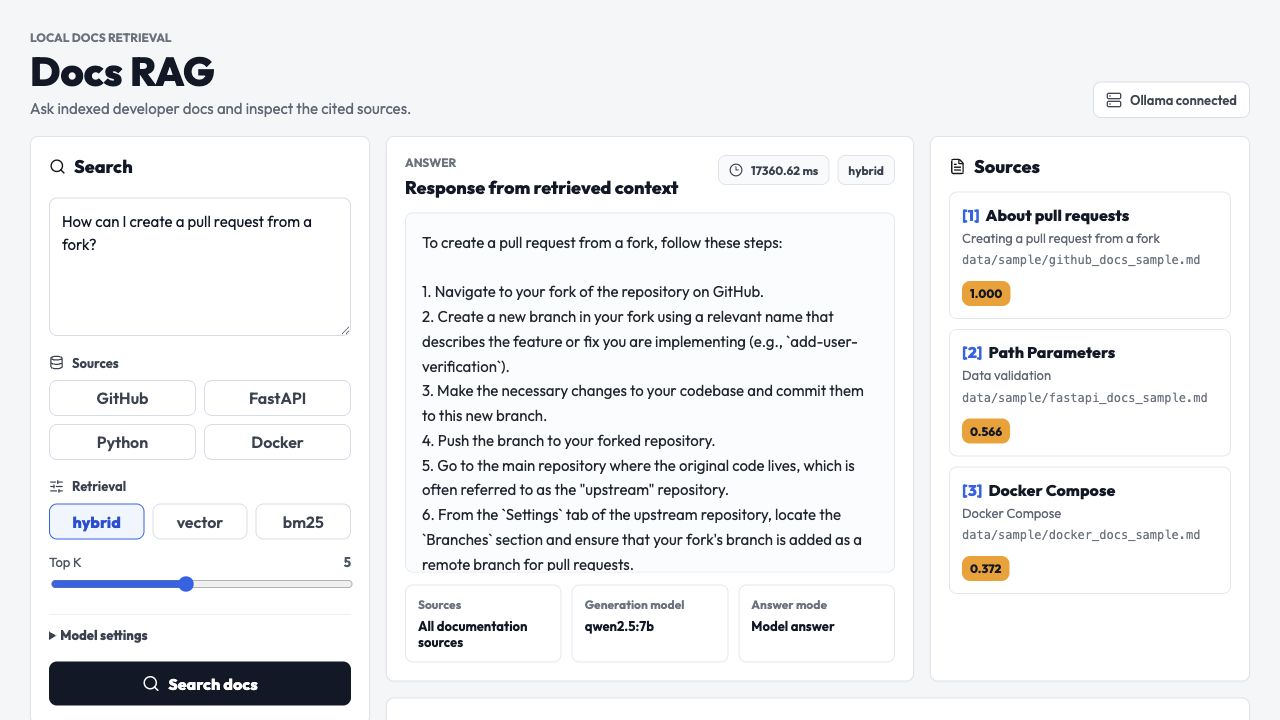
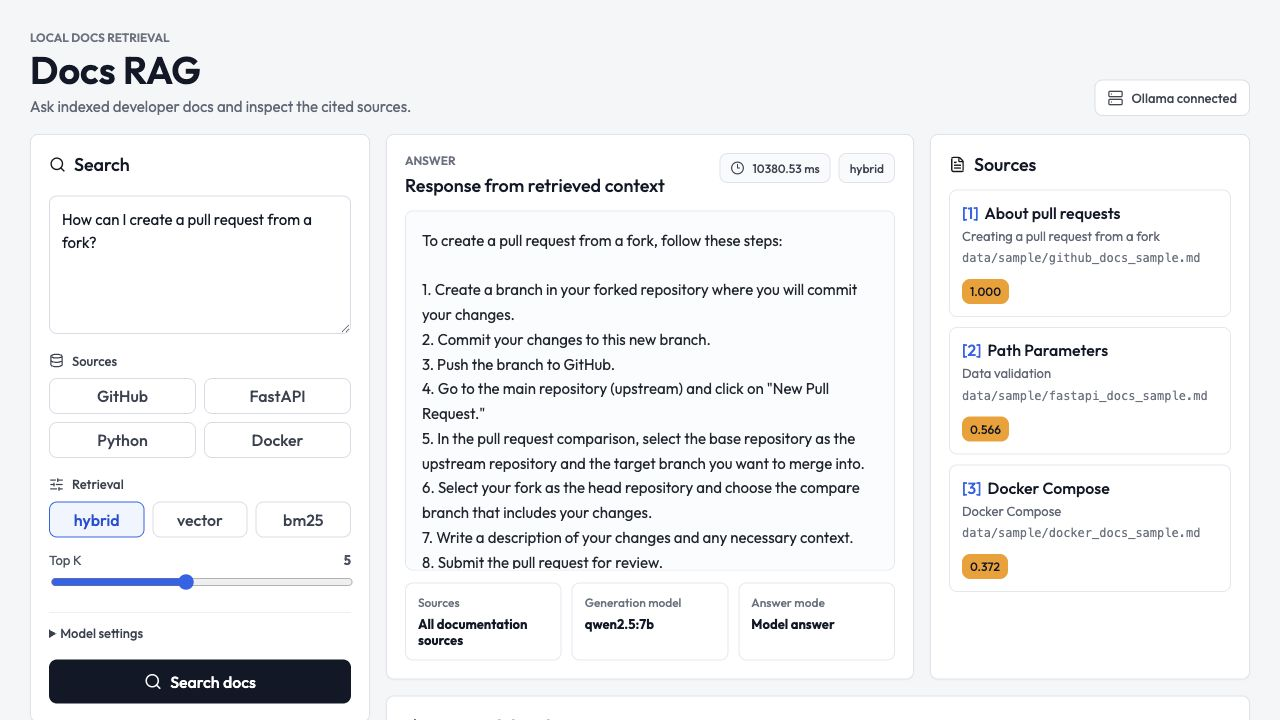
Refine dashboard typography

diff --git a/frontend/src/styles.css b/frontend/src/styles.css
@@ -1,4 +1,4 @@
-@import url("https://fonts.googleapis.com/css2?family=Outfit:wght@400;500;600;700;800&display=swap");
+@import url("https://fonts.googleapis.com/css2?family=Outfit:wght@400;500;600;700&display=swap");
 
 :root {
   color: #15171a;
@@ -44,7 +44,7 @@ input {
   margin: 0 0 6px;
   color: #6b7280;
   font-size: 12px;
-  font-weight: 700;
+  font-weight: 600;
   letter-spacing: 0;
   text-transform: uppercase;
 }
@@ -58,15 +58,15 @@ p {
 
 h1 {
   color: #111827;
-  font-size: 40px;
-  font-weight: 800;
+  font-size: 38px;
+  font-weight: 600;
   line-height: 1;
 }
 
 h2 {
   color: #111827;
   font-size: 18px;
-  font-weight: 800;
+  font-weight: 500;
 }
 
 .subtitle {
@@ -86,7 +86,7 @@ h2 {
   background: #ffffff;
   color: #3f4652;
   font-size: 13px;
-  font-weight: 600;
+  font-weight: 500;
 }
 
 .layout {
@@ -144,7 +144,7 @@ h2 {
   margin-bottom: 9px;
   color: #394150;
   font-size: 13px;
-  font-weight: 700;
+  font-weight: 500;
 }
 
 textarea,
@@ -199,7 +199,7 @@ input[type="range"]:focus-visible {
   background: #ffffff;
   color: #394150;
   cursor: pointer;
-  font-weight: 600;
+  font-weight: 500;
 }
 
 .chip.active,
@@ -207,7 +207,7 @@ input[type="range"]:focus-visible {
   border-color: #2563eb;
   background: #eff5ff;
   color: #1d4ed8;
-  font-weight: 800;
+  font-weight: 500;
 }
 
 .range-label {
@@ -233,7 +233,7 @@ input[type="range"] {
   cursor: pointer;
   color: #394150;
   font-size: 13px;
-  font-weight: 800;
+  font-weight: 500;
 }
 
 .settings-panel label {
@@ -247,7 +247,7 @@ input[type="range"] {
   margin-bottom: 6px;
   color: #6b7280;
   font-size: 12px;
-  font-weight: 700;
+  font-weight: 500;
 }
 
 .primary-action {
@@ -258,7 +258,7 @@ input[type="range"] {
   background: #111827;
   color: #ffffff;
   cursor: pointer;
-  font-weight: 800;
+  font-weight: 500;
 }
 
 .primary-action:disabled {
@@ -299,7 +299,7 @@ input[type="range"] {
   background: #f8fafc;
   color: #394150;
   font-size: 12px;
-  font-weight: 700;
+  font-weight: 500;
 }
 
 .answer-box {
@@ -323,7 +323,7 @@ input[type="range"] {
   border-radius: 8px;
   background: #fff4f2;
   color: #8a2d24;
-  font-weight: 600;
+  font-weight: 500;
 }
 
 .run-summary {
@@ -368,13 +368,13 @@ input[type="range"] {
 .source-number {
   margin-right: 6px;
   color: #2563eb;
-  font-weight: 800;
+  font-weight: 500;
 }
 
 .source-card strong,
 .chunk-row strong {
   color: #111827;
-  font-weight: 800;
+  font-weight: 500;
 }
 
 .source-card p,
@@ -401,7 +401,7 @@ code {
   background: #f59e0b;
   color: #111827;
   font-size: 12px;
-  font-weight: 800;
+  font-weight: 500;
 }
 
 .chunk-row {
@@ -428,7 +428,7 @@ code {
   background: #eef2f7;
   color: #394150;
   font-size: 12px;
-  font-weight: 700;
+  font-weight: 500;
 }
 
 .empty-state {

diff --git a/frontend/src/main.jsx b/frontend/src/main.jsx
@@ -25,6 +25,11 @@ function formatScore(value) {
   return value.toFixed(3);
 }
 
+function cleanAnswerText(text) {
+  if (!text) return "";
+  return text.replace(/\*\*/g, "").replace(/```/g, "").trim();
+}
+
 function App() {
   const [question, setQuestion] = useState("How can I create a pull request from a fork?");
   const [selectedSources, setSelectedSources] = useState([]);
@@ -242,10 +247,10 @@ function App() {
                 </div>
               </div>
 
-              {error && <div className="error-box">{error}</div>}
-              <article className="answer-box">
-                {result ? result.answer : "Enter a question and run a search."}
-              </article>
+            {error && <div className="error-box">{error}</div>}
+            <article className="answer-box">
+              {result ? cleanAnswerText(result.answer) : "Enter a question and run a search."}
+            </article>
 
               <div className="run-summary">
                 <div>
